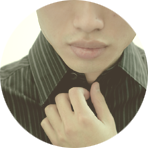
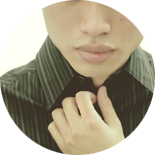
Circular reveal

diff --git a/src/js/layoutAnimation.js b/src/js/layoutAnimation.js
@@ -109,6 +109,7 @@ $(document).ready(function ()
         scope.contactShiftTowards = function () {
             $("#contact .transition").addClass("opacityOne");
             $("#contact .transition").removeClass("opacityZero");
+            $("#contact .left img").addClass("active");
 
 
         }
@@ -116,6 +117,7 @@ $(document).ready(function ()
         scope.contactShiftAway = function () {
             $("#contact .transition").addClass("opacityZero");
             $("#contact .transition").removeClass("opacityOne");
+            $("#contact .left img").removeClass("active");
         }
 
         //slick

diff --git a/src/scss/main.scss b/src/scss/main.scss
@@ -1174,12 +1174,13 @@ body {
         .left {
             padding-right: 10px;
             img {
-                width: 140px * 0.5;
-                height: 140px * 0.5;
-            }
-            svg {
-                width: 100px;
-                height: 100px;
+                width: 155px * 0.5;
+                height: 155px * 0.5;
+                @include transitions(all .3s ease-out);
+                @include scale(0);
+                &.active {
+                    @include scale(1);
+                }
             }
         }
         .right {
